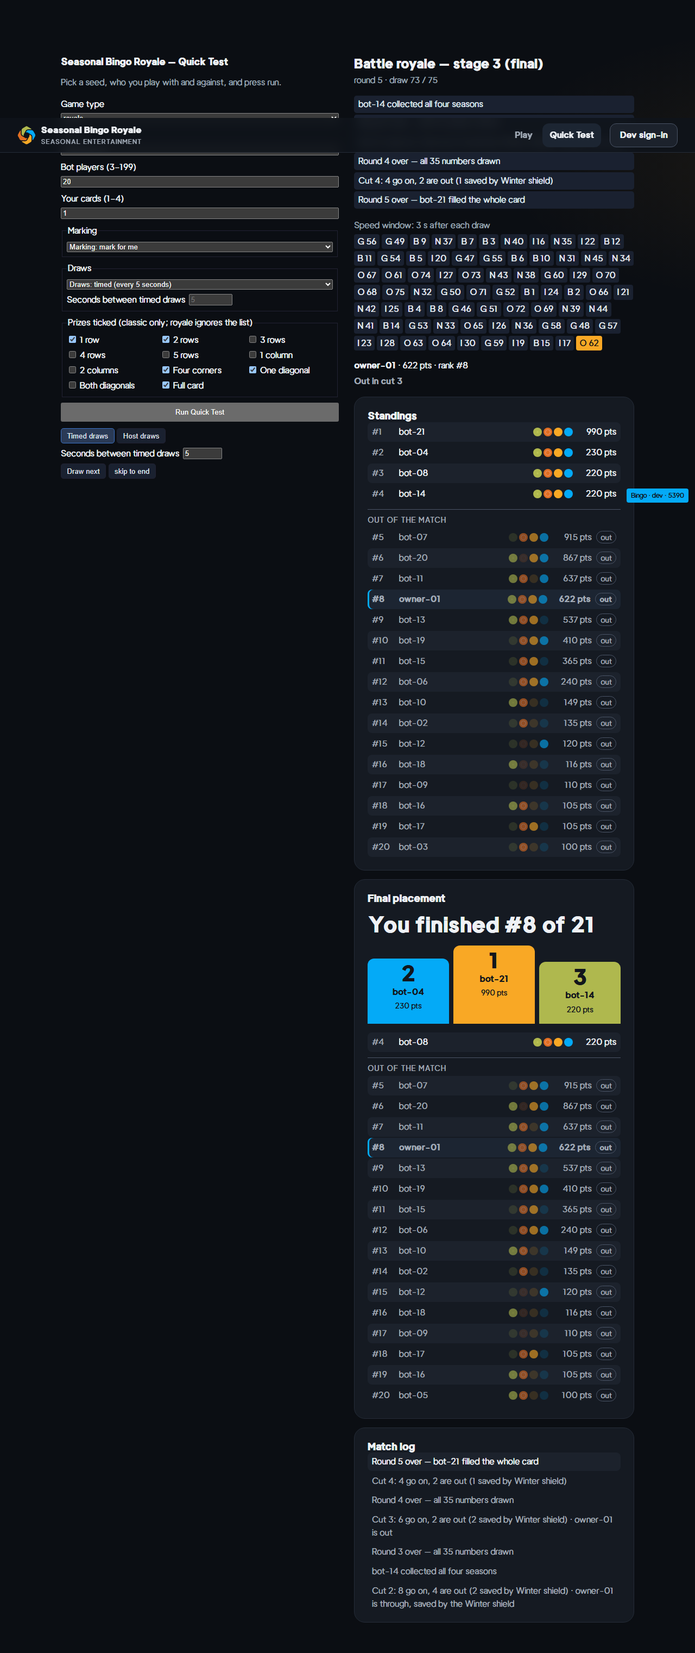
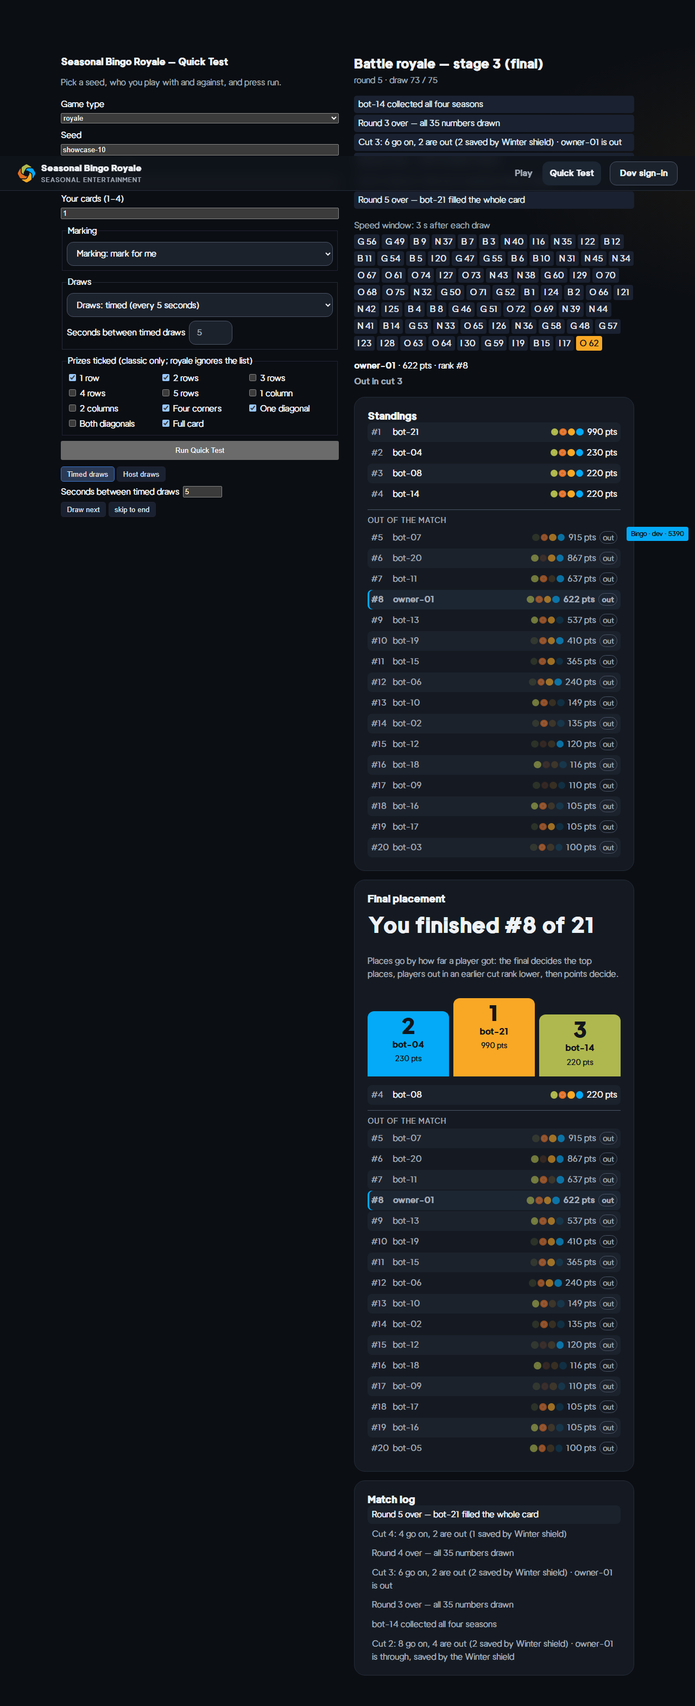
RUN FINISHED: POLISH-1
Report sheet reports/polish-2026-10-21.md with DONE, NOT DONE, NEEDS
THE OWNER'S WORD and FOR THE OWNER, review 1 verbatim, and the
screenshots taken after the review fixes (lobby, create form, waiting
room at desktop and phone size; royale start screens of all four
people) plus the regenerated showcase shots.

Changed region(s): [[0.0312, 0.0312, 1.0, 0.9993], [0.8438, 0.9057, 0.875, 0.9369]]

diff --git a/reports/polish-2026-10-21.md b/reports/polish-2026-10-21.md
@@ -25,11 +25,51 @@ Branch `feat/real-game-draft`, not merged. Rewritten after every step.
 | Standings and final placement as ranked rows: rank, name, four season icons (collected lit), points, own row highlighted, out rows dimmed with "out" below a divider; final screen "You finished #N of M", podium 1–3 in season colours, then the list; prize list as rows                                                                                                                                                                                           | `results.test.tsx` › "lists players still in, a divider, then the out rows…" (red without the divider), "states the owner's place big and puts places 1–3 on a podium" (red with a two-step podium); `playerView.test.tsx` spectator test                                                                                                                                                        |
 | Eliminated player's status panel reads "Out in cut N" instead of shield ×0 and effects                                                                                                                                                                                                                                                                                                                                                                               | `playerView.test.tsx` › "says \"Out in cut N\" instead of effects, shield and seasons once the owner is out" (red when the season panel still shows)                                                                                                                                                                                                                                             |
 | Host draw mode as a segmented switch, active option filled and checked; seconds field only for timed draws. Draw next: enabled ink on Winter 6.9:1; disabled no longer fades (muted text on surface-2, ≥ 4.5:1 in both themes)                                                                                                                                                                                                                                       | `results.test.tsx` › "marks the active mode and shows the seconds only for timed draws" (red when the seconds always show); `designTokens.test.ts` › "keeps the host's Draw next at 4.5:1 enabled and disabled" (red with the old 0.45 opacity)                                                                                                                                                  |
-| Top bar: sticky from 640 px only, with `scroll-padding-top` so focus never lands under it; on phones it scrolls away. Full-page screenshots make it non-sticky during the capture only (`e2e/screens.ts`)                                                                                                                                                                                                                                                            | `e2e/hostNav.spec.ts` › "the top bar never covers the focused field; on a phone it scrolls away" (step 3)                                                                                                                                                                                                                                                                                        |
+| Top bar: sticky from 640 px only, with `scroll-padding-top` so focus never lands under it; on phones it scrolls away. Full-page screenshots make it non-sticky during the capture only (`e2e/screens.ts`)                                                                                                                                                                                                                                                            | `e2e/hostNav.spec.ts` › "the top bar never covers a field jumped to; on a phone it scrolls away" (step 3)                                                                                                                                                                                                                                                                                        |
+
+### Step 3 — full re-test
+
+| Item                                                                                                                                                                                                                                                                                                                                              | Evidence                                                                                                                                                                                                                                                                                                                                                                                                                                          |
+| ------------------------------------------------------------------------------------------------------------------------------------------------------------------------------------------------------------------------------------------------------------------------------------------------------------------------------------------------- | ------------------------------------------------------------------------------------------------------------------------------------------------------------------------------------------------------------------------------------------------------------------------------------------------------------------------------------------------------------------------------------------------------------------------------------------------- |
+| Real-game acceptance play-through: host plus three players (player 3 at 390×844), royale timed (with a mid-match switch to host draws and back) and host draws, classicSeasons with default prizes timed and host, classic fullCard only timed and host; taps, misses, late taps, every consistency check on every draw, a fresh match afterwards | `SBR_ACCEPTANCE=1 … acceptance/realGame`: 6 passed (53.5 min). royale-timed 221 draws, 4 cuts, 17 misses auto-marked after 3.5–4.8 s; royale-host 222 draws, 4 cuts; classicSeasons-timed 79 draws; classicSeasons-host 69 draws, 21 misses; classic-timed 64 draws, 20 misses; classic-host 70 draws. Each check now also asserts that the own standings row is highlighted and that nothing is wider than the window                            |
+| Found by the play-through and fixed: on a 390 px phone the standings grew wider than the screen; a player scrolled down to the card never saw the cut screen                                                                                                                                                                                      | Rank list pinned to the panel width; the overflow assertion was red with the fix removed (`player-3: nothing wider than the window`). A new cut scrolls into view: `playerView.test.tsx` › "brings a new cut into view" (red without the call)                                                                                                                                                                                                    |
+| Step-1 journeys: the host creates, goes to the lobby, returns via "Manage", fills with bots, starts; opens the match screen and returns via "Open host console"; the same window signed in as a player shows no "Manage" and no host link; the test stops its match even when a step fails                                                        | `e2e/hostNav.spec.ts` › "the host returns via Manage and Open host console; a player sees no Manage" — red when Manage shows for everyone, red when the host link is hidden from the host                                                                                                                                                                                                                                                         |
+| The top bar never covers a field brought to the top edge (desktop) and scrolls away on a phone                                                                                                                                                                                                                                                    | `e2e/hostNav.spec.ts` › "the top bar never covers a field jumped to…" — red without `scroll-padding-top`, red with a sticky bar on phones                                                                                                                                                                                                                                                                                                         |
+| Screenshots: viewport shots (1280×800 and 390×844) and full-page shots with the bar non-sticky during the capture only                                                                                                                                                                                                                            | `e2e/screens.ts`. The green play-through took the full in-game set (start, mid, cut, end for every player and the host, 6 matches), and review 1 used it. It was then deleted for a re-shoot after the review fixes, and that re-shoot was stopped (see NOT DONE). `reports/screens/real-game/` now holds the lobby, create form and waiting room at both sizes, and the royale-timed start screens of all four people, all taken after the fixes |
+| All Playwright in Chromium, Firefox and WebKit mobile                                                                                                                                                                                                                                                                                             | `pnpm e2e`: 48 passed (4.9 min) on the final tree                                                                                                                                                                                                                                                                                                                                                                                                 |
+| Branch CI                                                                                                                                                                                                                                                                                                                                         | Green for every push of POLISH-1 (`gh run list --branch feat/real-game-draft`)                                                                                                                                                                                                                                                                                                                                                                    |
+
+### Step 4 — independent screenshot review
+
+Review 1 (verbatim at the end of this sheet) and what was done with each finding:
+
+| #   | Finding                                                | Done                                                                                                                                                                                                                                                                                                                                   | Evidence                                                                                                                                  |
+| --- | ------------------------------------------------------ | -------------------------------------------------------------------------------------------------------------------------------------------------------------------------------------------------------------------------------------------------------------------------------------------------------------------------------------- | ----------------------------------------------------------------------------------------------------------------------------------------- |
+| 1   | Season squares show no symbol                          | Fixed: a classicSeasons symbol shows its icon on the card colour, framed in its season colour (it was drawn in its own colour on that colour)                                                                                                                                                                                          | `playerView.test.tsx` › "show a classicSeasons symbol as its icon on the card, framed in its season colour" (red with the old background) |
+| 2   | Season draws in the strip are unlabelled dots          | Fixed: icon plus name ("Winter"); `ballLabel` names seasons with a capital                                                                                                                                                                                                                                                             | `results.test.tsx` › "names a season draw in the ticker next to its icon" (red without the name)                                          |
+| 3   | Names cut off in the host's standings and on the phone | Fixed: smaller icons and gaps, no fixed points width, slimmer "out", host side column 25rem, small type on phones                                                                                                                                                                                                                      | Review 2 screenshots                                                                                                                      |
+| 4   | Standings panel width differs between screens          | Not fixed: the difference is the browser's scrollbar (about 20 px). Both fixes (`scrollbar-gutter: stable`, `overflow-y: scroll`) made mobile WebKit's layout unstable (Playwright clicks never settled), so they were removed                                                                                                         | WebKit runs before and after                                                                                                              |
+| 5   | Greyed-out Draw next in timed mode                     | Fixed: Draw next exists for host draws only; timed mode says how to draw by hand                                                                                                                                                                                                                                                       | `results.test.tsx` › "marks the active mode; seconds for timed draws, Draw next for host draws only" (red when Draw next always shows)    |
+| 6   | Host not told about a cut; no progress line or LIVE    | Fixed: the host console shows the players' progress line and LIVE; the match log sits above the standings                                                                                                                                                                                                                              | Review 2 screenshots                                                                                                                      |
+| 7   | An eliminated player told three times; unclear buttons | Fixed: the cut screen closes with "Close"; the note in place of the card reads "You're watching the rest of the match."; the panel keeps "Out in cut N"                                                                                                                                                                                | `playerView.test.tsx` cut-screen test                                                                                                     |
+| 8   | End screens keep in-play wording                       | Fixed: "Match over", no speed-window line, no spectator note at the end                                                                                                                                                                                                                                                                | `plainEnglish.test.tsx` (end checks)                                                                                                      |
+| 9   | No next step at the end                                | Fixed: "Back to the lobby"; the host also "Host another match"                                                                                                                                                                                                                                                                         | `plainEnglish.test.tsx` (red without the links)                                                                                           |
+| 10  | Royale placement looks wrong; classic ties             | Fixed: one line under the final placement states how places are decided (01 §7.5, §3a.2)                                                                                                                                                                                                                                               | `plainEnglish.test.tsx` checks the rule line                                                                                              |
+| 11  | Ranking twice at the end                               | Fixed: the final placement replaces the live standings (player and host)                                                                                                                                                                                                                                                               | `plainEnglish.test.tsx` (red with the standings kept)                                                                                     |
+| 12  | Technical terms                                        | Fixed: "1 is out" grammar (`labels.test.ts`, red without it), "Open" capitalised, acceptance and journey matches get plain titles. Not real: "Dev sign-in" exists in development only; "Nav …" / "Smoke …" titles are test data (Smoke is left by an existing test, noted below)                                                       | `labels.test.ts`                                                                                                                          |
+| 13  | Create form inconsistent                               | Fixed: the draw and missed-number fields use the design-system field styles (also in the Quick Test); placeholders in the muted token colour. Not changed: the option texts repeat "Draws: …" / "Missed numbers: …" on purpose (same words as the Quick Test, checked by `markingLabels.test.tsx`); the "dbg" rows were test leftovers | Review 2 screenshots                                                                                                                      |
+| 14  | Phone: form far down, crowded header                   | Fixed: one account row on phones (the chip shortens), and the bar scrolls away on phones (step 2). Not real: the 25 "Your matches" rows were test leftovers, now stopped (the list shows only open or running matches)                                                                                                                 | Review 2 screenshots                                                                                                                      |
+| 15  | Lobby shows stopped matches                            | Fixed: stopped matches are left out of the lobby                                                                                                                                                                                                                                                                                       | Review 2 screenshots                                                                                                                      |
+| 16  | Phone titles wrap at a hyphen                          | Not real: the hyphen was in test-data titles, now plain words                                                                                                                                                                                                                                                                          | —                                                                                                                                         |
+| 17  | Shield pill icon hidden                                | Fixed: the icon in an effect badge is a dark silhouette on the season colour                                                                                                                                                                                                                                                           | Review 2 screenshots                                                                                                                      |
+| 18  | "Marked" unclear                                       | Fixed: the feedback names the number ("Marked G 52"); a refusal is a sentence, never a code                                                                                                                                                                                                                                            | Review 2 screenshots                                                                                                                      |
 
 ## NOT DONE
 
-_Steps 3–4 follow._
+- **Quick Test acceptance (`SBR_ACCEPTANCE=1`, 18 runs)** was not re-run on the POLISH-1 tree. One attempt was stopped after its first run failed ("exactly one new number", 25 → 27). That failure came while I was editing the screens it was using and hot reload swapped them mid-run, so it is no evidence either way. The shorter Quick Test specs (determinism, showcase, manual, missed numbers, new run, draw control) pass in all three browsers.
+- **Real-game acceptance after the review fixes** was not re-run to the end. The green 6/6 run above was before those fixes; a re-run was stopped by the owner's addendum after it began.
+- **Final screenshot set and review 2**: the in-game shots after the review fixes were not re-taken (only the royale-timed start screens of all four people), and the second independent review did not run. Review-1 findings marked "Review 2 screenshots" in the table above are fixed in code but have no screenshot evidence yet.
+- **Review-1 finding 4** (panel width with and without a scrollbar) stays open: both CSS fixes made mobile WebKit unstable.
 
 ## NEEDS THE OWNER'S WORD
 
@@ -38,11 +78,145 @@ _Steps 3–4 follow._
 - **Top bar on phones** is no longer sticky (two rows would cover a large part of a 390 px screen); sticky from 640 px.
 - **Eliminated players on the podium** show their points without "out" (a podium place is a result, not a state).
 - **Quick Test** keeps its banner list above the log; the one-log rule was applied to the real game's player and host screens.
+- **Cut screen button** reads "Close" for survivors and eliminated players alike (the review found "Keep watching" and "Back to the game" both unclear).
+- **Draw next** is hidden in timed mode (not just disabled).
+- **At the end of a match** the final placement replaces the live standings on the player and host screens.
+- **The lobby** leaves stopped (aborted) matches out; finished ones stay so their results can be viewed.
+- **Season draws** read with a capital everywhere ("Winter", also inside prize lines such as "draw 37 (Winter)").
 - **Host role in the account chip** follows the permission to create matches (`match.create`): an account that may host is shown as "(host)" everywhere, also while it plays.
+
+## Report details
+
+### Lines before / after (since 33ab24c, NIGHT-2's end)
+
+| File                                             | Before | After |
+| ------------------------------------------------ | ------ | ----- |
+| `apps/server/src/http/routes/matchViews.ts`      | 75     | 79    |
+| `apps/server/src/http/routes/matches.ts`         | 125    | 131   |
+| `apps/server/src/realtime/gateway.ts`            | 130    | 130   |
+| `apps/server/test/realtime.integration.test.ts`  | 215    | 233   |
+| `apps/web/src/components/CellFace.tsx`           | 75     | 75    |
+| `apps/web/src/components/CutScreen.tsx`          | 56     | 75    |
+| `apps/web/src/components/DrawTicker.tsx`         | 58     | 74    |
+| `apps/web/src/components/FinalPlacement.tsx`     | 0      | 101   |
+| `apps/web/src/components/OwnerArea.tsx`          | 124    | 124   |
+| `apps/web/src/components/OwnerStatusPanel.tsx`   | 123    | 125   |
+| `apps/web/src/components/Playback.tsx`           | 176    | 145   |
+| `apps/web/src/components/RankRow.tsx`            | 0      | 68    |
+| `apps/web/src/components/SeasonIcon.tsx`         | 46     | 50    |
+| `apps/web/src/components/Standings.tsx`          | 76     | 71    |
+| `apps/web/src/components/StartDrawField.tsx`     | 68     | 75    |
+| `apps/web/src/components/StartForm.tsx`          | 233    | 235   |
+| `apps/web/src/components/StartMarkingField.tsx`  | 109    | 112   |
+| `apps/web/src/components/cardView.test.tsx`      | 73     | 73    |
+| `apps/web/src/components/displayFixes.test.tsx`  | 58     | 58    |
+| `apps/web/src/components/playerView.test.tsx`    | 138    | 173   |
+| `apps/web/src/components/reducedMotion.test.tsx` | 91     | 91    |
+| `apps/web/src/components/results.css`            | 0      | 259   |
+| `apps/web/src/components/results.test.tsx`       | 0      | 101   |
+| `apps/web/src/designTokens.test.ts`              | 81     | 106   |
+| `apps/web/src/game/CurrentBall.tsx`              | 76     | 79    |
+| `apps/web/src/game/EndActions.tsx`               | 0      | 29    |
+| `apps/web/src/game/HostLink.tsx`                 | 0      | 28    |
+| `apps/web/src/game/LiveCard.tsx`                 | 62     | 68    |
+| `apps/web/src/game/Lobby.tsx`                    | 131    | 160   |
+| `apps/web/src/game/MatchScreen.tsx`              | 145    | 175   |
+| `apps/web/src/game/WaitingRoom.tsx`              | 95     | 89    |
+| `apps/web/src/game/game.css`                     | 274    | 340   |
+| `apps/web/src/game/labels.test.ts`               | 0      | 37    |
+| `apps/web/src/game/labels.ts`                    | 40     | 175   |
+| `apps/web/src/game/plainEnglish.test.tsx`        | 0      | 195   |
+| `apps/web/src/game/useLiveMatch.ts`              | 134    | 142   |
+| `apps/web/src/host/CreateMatch.tsx`              | 243    | 248   |
+| `apps/web/src/host/HostConsole.tsx`              | 203    | 241   |
+| `apps/web/src/host/HostDrawControls.tsx`         | 165    | 177   |
+| `apps/web/src/host/YourMatches.tsx`              | 0      | 49    |
+| `apps/web/src/host/hostNav.test.tsx`             | 0      | 135   |
+| `apps/web/src/newRun.test.tsx`                   | 97     | 97    |
+| `apps/web/src/playback.ts`                       | 294    | 202   |
+| `apps/web/src/playbackScoring.ts`                | 0      | 104   |
+| `apps/web/src/playbackTypes.ts`                  | 61     | 65    |
+| `apps/web/src/shell/AppShell.tsx`                | 126    | 159   |
+| `apps/web/src/shell/shell.css`                   | 94     | 144   |
+| `apps/web/src/shell/shell.test.tsx`              | 89     | 94    |
+| `apps/web/src/types.test.ts`                     | 47     | 47    |
+| `apps/web/src/types.ts`                          | 182    | 182   |
+| `apps/web/src/useSecondsUntil.ts`                | 0      | 28    |
+| `docs/BACKLOG.md`                                | 46     | 47    |
+| `docs/OPEN.md`                                   | 8      | 8     |
+| `docs/spec/01-game-design.md`                    | 375    | 382   |
+| `docs/spec/05-api-design.md`                     | 143    | 143   |
+| `e2e/acceptance/checks.ts`                       | 129    | 136   |
+| `e2e/acceptance/liveSnap.ts`                     | 76     | 93    |
+| `e2e/acceptance/realGame.spec.ts`                | 256    | 262   |
+| `e2e/acceptance/snapshot.ts`                     | 112    | 113   |
+| `e2e/determinism.spec.ts`                        | 27     | 27    |
+| `e2e/hostNav.spec.ts`                            | 0      | 141   |
+| `e2e/quickTest.ts`                               | 81     | 81    |
+| `e2e/realGame.ts`                                | 89     | 92    |
+| `e2e/screens.ts`                                 | 0      | 44    |
+| `e2e/showcase.spec.ts`                           | 75     | 78    |
+| `packages/application/src/match/engine.test.ts`  | 136    | 156   |
+| `packages/application/src/match/flow.ts`         | 140    | 142   |
+| `packages/application/src/match/ports.ts`        | 116    | 119   |
+| `packages/ui/src/base.css`                       | 193    | 199   |
+
+### Removed
+
+- The duplicate match log (side feed `Banners` on the real game's player and host screens) and the bottom log on the player screen.
+- The four dev quick sign-in buttons in the bar (step 1; replaced by one menu).
+- Raw-identifier banner texts and `OUTCOME_NOTE` / `roundEndText` in `playback.ts`; the WaitingRoom's own countdown loop; the "Keep watching" / "Back to the game" buttons; the old NIGHT-2 screenshots in `reports/screens/real-game/`.
+
+### Extracted
+
+- `playbackScoring.ts` (the fold state and scoring events) out of `playback.ts`, which was at 294 lines.
+- `FinalPlacement.tsx` out of `Playback.tsx`; `RankRow.tsx` (row and divider) shared by standings and final placement.
+- `useSecondsUntil.ts` out of the WaitingRoom countdown, now also used by the cut screen.
+- `EndActions.tsx`, `HostLink.tsx`, `YourMatches.tsx`; `LobbyHead`, `ArenaHeader`, `RulesFields`, `BotFill` inside their files.
+- `e2e/screens.ts` (viewport and full-page capture).
+
+### Reused
+
+- `labels.ts` for every event line, prize name, error sentence and the progress line (player and host); `standingsOrder`, `SeasonIcon`, `Standings`, `CutScreen`, `DrawTicker`, `MatchLog`, `PrizeList` from the Quick Test; router `hrefOf` / `navigate`; `useSession().can`; `ballLabel`; the design-system classes `sbr-input` / `sbr-select` in the shared form fields; `buildClientView` unchanged.
+- No new dependencies.
+
+### Noticed, left alone
+
+- `e2e/realGame.spec.ts` ("Smoke …") leaves its match running after every run. I stopped the leftovers on the dev host account, together with:
+  - "Friday night bingo" matches from WebKit runs that timed out before their cleanup;
+  - three "Friday Royale" matches and one "Bingo night" match that were open there.
+- A `vitest run packages/domain` worker started at 00:38 by NIGHT-2 kept running at full CPU for 20 hours and slowed every test run; I stopped it. A `tsx watch src/main.ts` in `apps/server` from 2026-10-20 is still running (idle, not on 3900).
+- Mobile WebKit under three parallel workers waits seconds for every click to settle; the navigation journey needs about two minutes there.
+- The option texts in the create and Quick Test forms repeat the field heading ("Draws: …"), as decided earlier and tested.
+
+### Test results
+
+- `pnpm verify`: green, 294 unit and integration tests (52 files), lint, types, format.
+- `pnpm e2e`: 48 passed in Chromium, Firefox and WebKit mobile (final tree).
+- Real-game acceptance: 6 passed (53.5 min) before the review fixes.
+- Every new test was red once with its feature broken (named in the tables above).
 
 ## FOR THE OWNER
 
-_Written at the end._
+**How to try it**
+
+1. Open http://localhost:5390 in a normal window. Choose **Dev sign-in → Host**. The chip at the top says "Signed in as dev-host (host)".
+2. **Host a match**: fill in a title, pick a game type and draws, and press Create. You land on the host console.
+3. Open a **private window** (or another browser), go to http://localhost:5390 and choose **Dev sign-in → Player 1**. One window holds one sign-in, so the second person needs a private window. In the lobby, press **Join** on your match: you are in the waiting room.
+4. Back in the host window, press **Play** in the top bar. Your match shows **Manage** instead of Join, and every card shows its code. **Manage** brings you back to the console. The "Host a match" page also lists **Your matches**.
+5. Fill with bots, press **Start match**, and play. From the player screen the host can always return with **Open host console**.
+
+**What changed on screen**
+
+- Every message is plain English: "Round 1 over — all 40 numbers drawn", "Cut 1: 12 go on, 8 are out (2 saved by Winter shield)", "Full card won by bot-02 on draw 37 (G 52)". No internal words or error codes.
+- After a cut: "You're through — next round in 6 s" or "You're out in cut 1 — you can keep watching". The message comes into view even if you scrolled down to your card. An eliminated player's panel says "Out in cut 1".
+- One match log, newest first.
+- Standings are ranked rows with the four season icons. Your row is highlighted, and players who are out are dimmed below a divider.
+- At the end: "You finished #9 of 20", a podium for the top three, the full list with one line on how places are decided, and buttons "Back to the lobby" / "Host another match".
+- Host console: the same progress line and LIVE badge as the players. "Host draws / Timed draws" is a switch; Draw next appears only for host draws, and the seconds field only for timed draws.
+- Classic with seasons: season squares show their icon on the card, and a drawn season reads "Winter" with its icon.
+- Phone: nothing is wider than the screen, and the top bar scrolls away.
+- Screenshots to look at: `reports/screens/real-game/` (lobby, create form, waiting room at desktop and phone size; the first draw of a battle royale for the host and all three players).
 
 ## Screenshot review 1 (independent subagent, verbatim)
 
